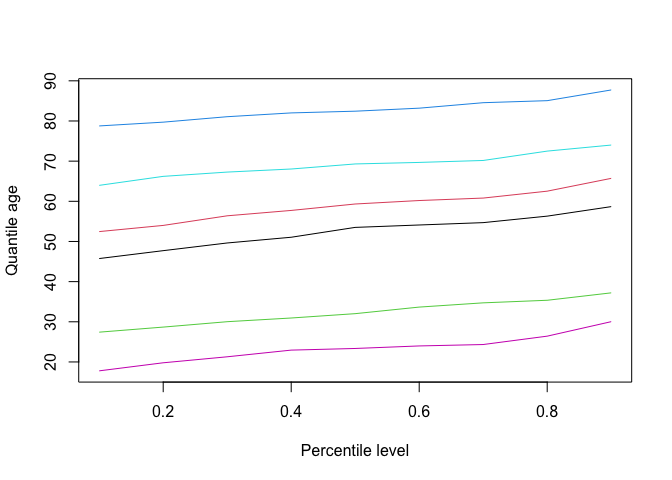
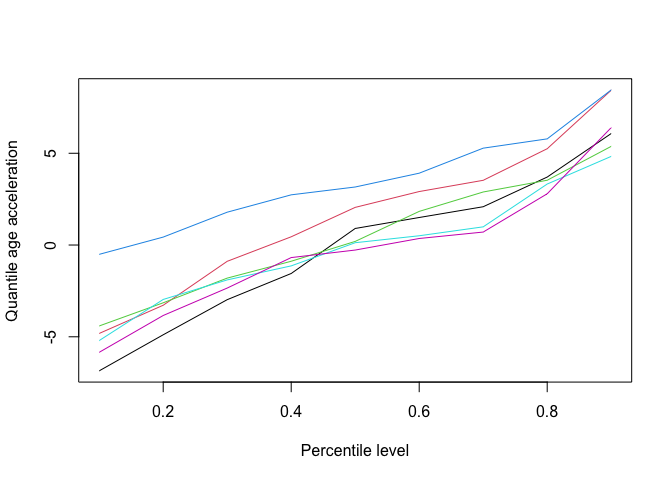
Show qEAA profiles in README example

diff --git a/README.md b/README.md
@@ -76,7 +76,7 @@ summary(profile)
 #>   Low-support rows:   0
 #>   Outside-range rows: 3
 #>   Incomplete rows:    0
-plot(profile, rows = 1:6)
+plot(profile, type = "qeaa", rows = 1:6)
 ```
 
 ![](man/figures/README-minimal-workflow-1.png)<!-- -->
